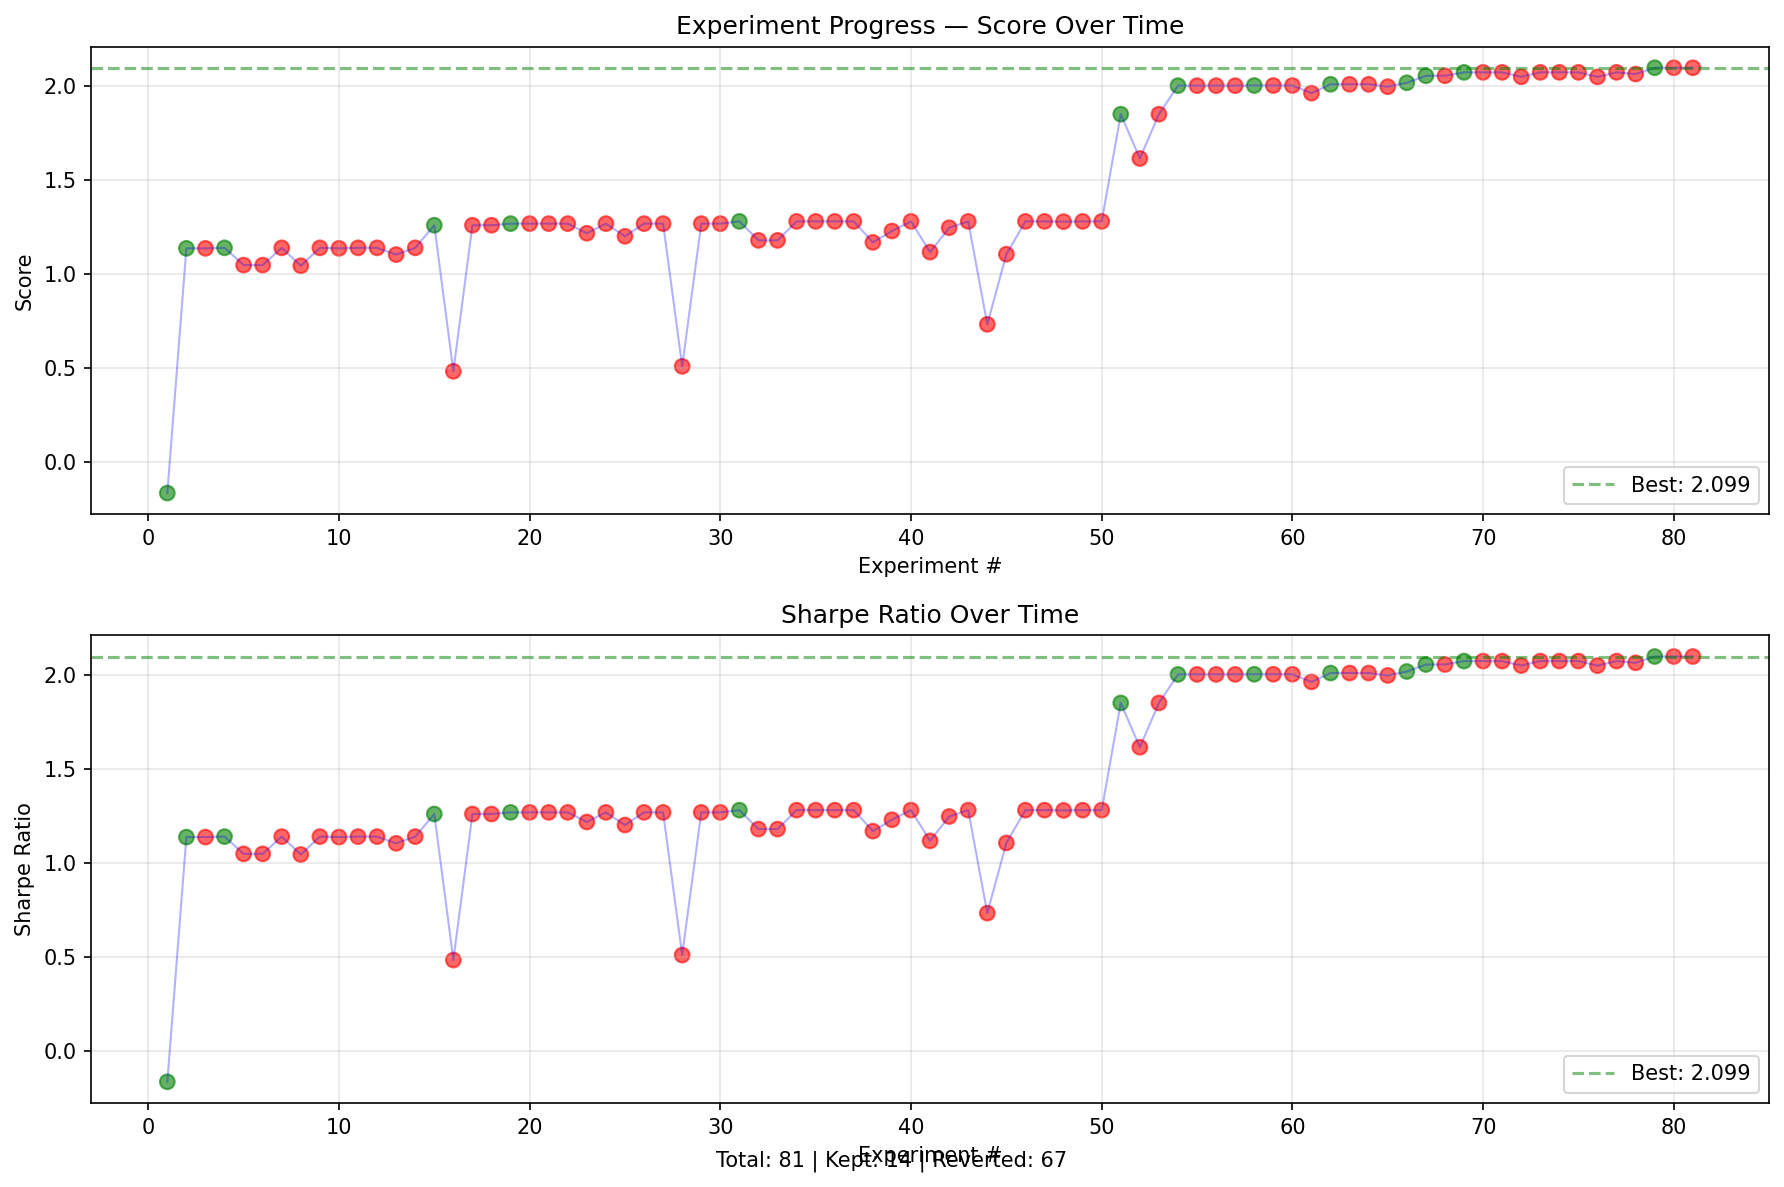
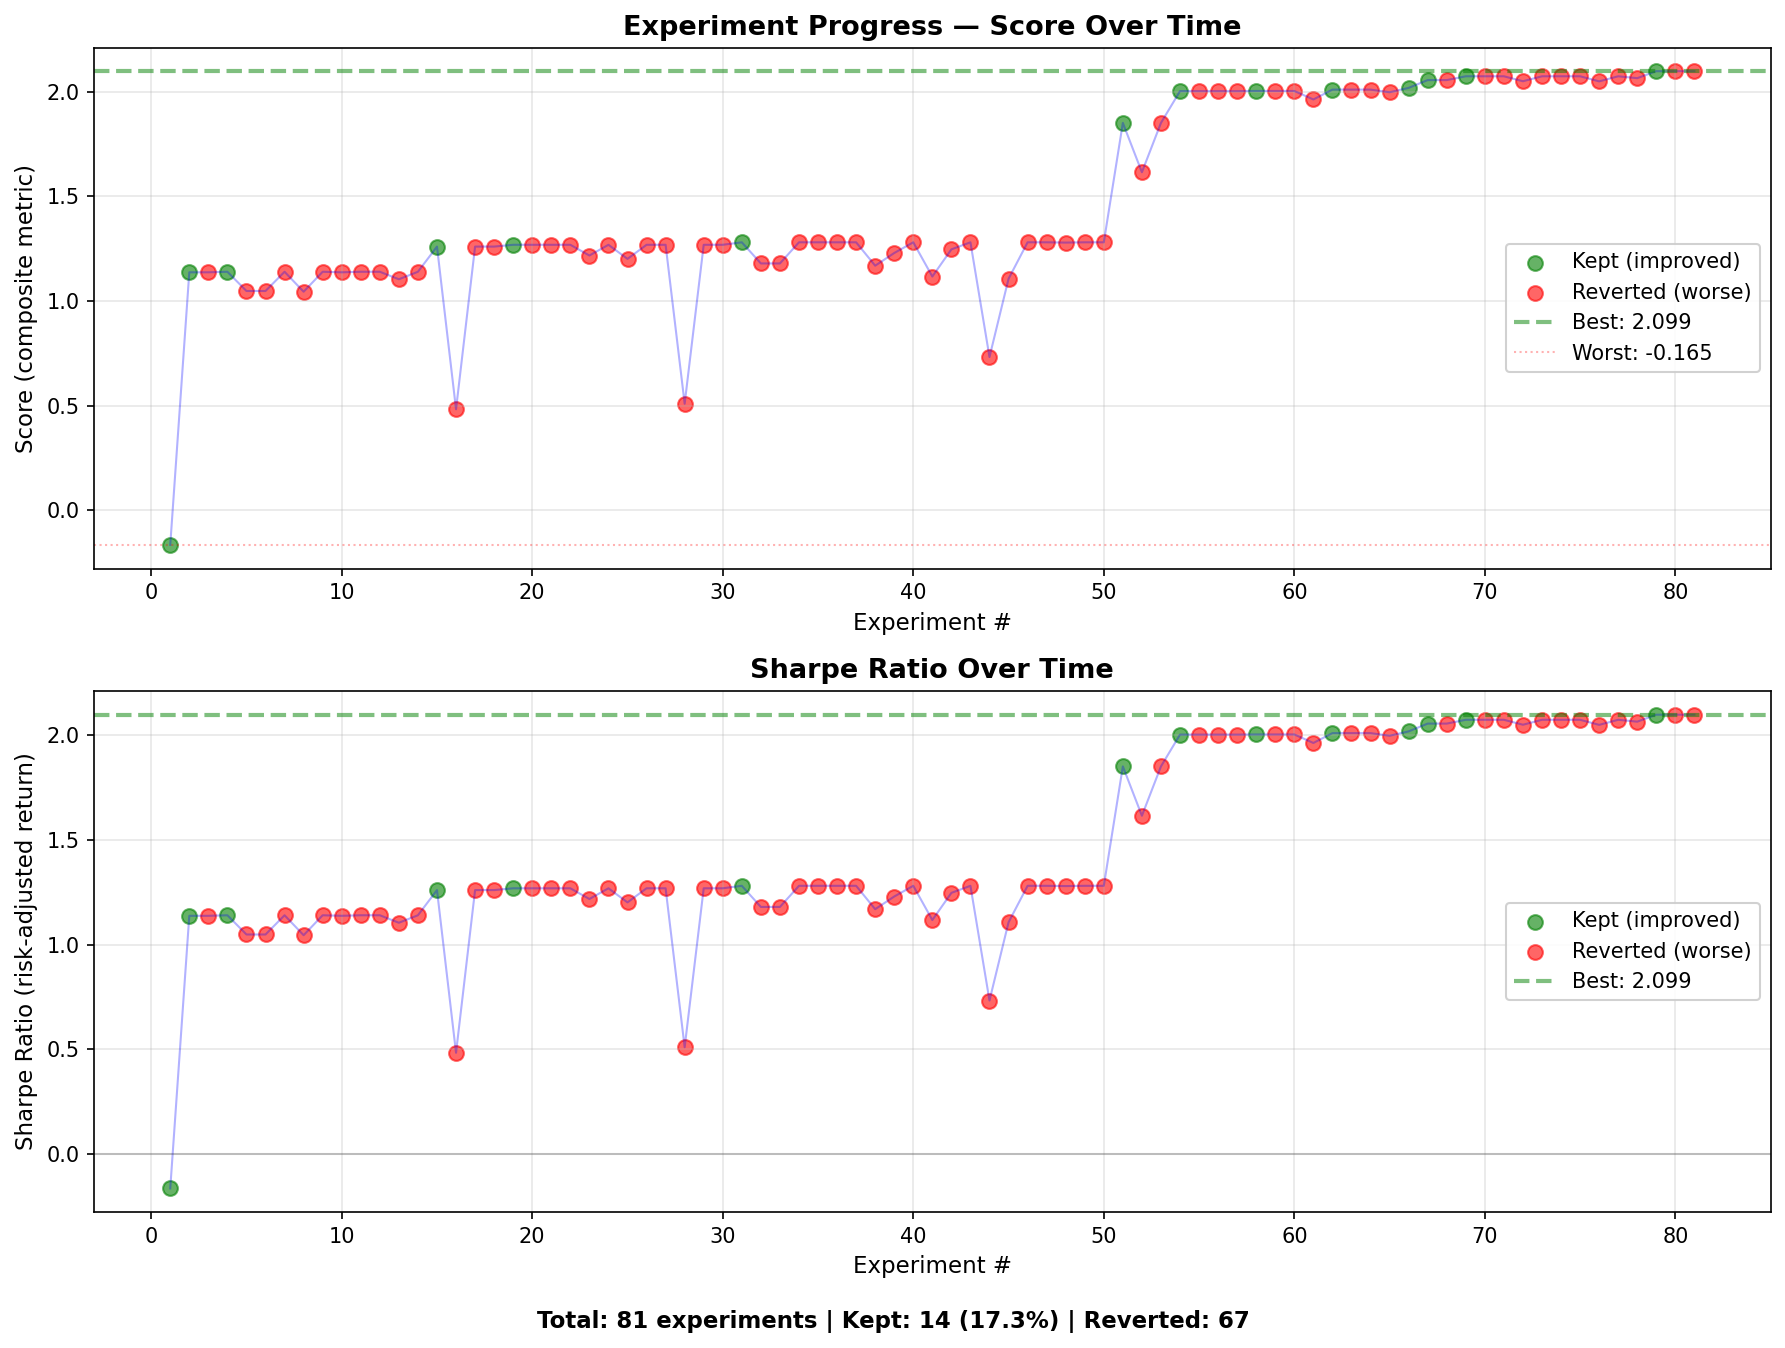
Fix plot_progress.py — add legends and better chart distinction
- Add proper legend for green (kept) and red (reverted) dots
- Separate scatter plots by status for clear legend labels
- Add worst score line for context
- Add zero line to Sharpe chart for reference
- Improve axis labels with units/descriptions
- Show improvement rate percentage in footer
- Adjust layout to prevent text cutoff

diff --git a/tools/plot_progress.py b/tools/plot_progress.py
@@ -30,36 +30,48 @@ def plot_progress(experiments):
     kept = [e.get('kept', False) for e in experiments]
 
     # Create figure with two subplots
-    fig, (ax1, ax2) = plt.subplots(2, 1, figsize=(12, 8))
+    fig, (ax1, ax2) = plt.subplots(2, 1, figsize=(12, 9))
+
+    # Separate data for legend
+    x_kept = [i for i, k in zip(x, kept) if k]
+    x_reverted = [i for i, k in zip(x, kept) if not k]
+    scores_kept = [s for s, k in zip(scores, kept) if k]
+    scores_reverted = [s for s, k in zip(scores, kept) if not k]
+    sharpes_kept = [s for s, k in zip(sharpes, kept) if k]
+    sharpes_reverted = [s for s, k in zip(sharpes, kept) if not k]
 
     # Plot 1: Score over time
-    colors = ['green' if k else 'red' for k in kept]
-    ax1.scatter(x, scores, c=colors, alpha=0.6, s=50)
+    ax1.scatter(x_kept, scores_kept, c='green', alpha=0.6, s=50, label='Kept (improved)')
+    ax1.scatter(x_reverted, scores_reverted, c='red', alpha=0.6, s=50, label='Reverted (worse)')
     ax1.plot(x, scores, 'b-', alpha=0.3, linewidth=1)
-    ax1.axhline(y=max(scores), color='g', linestyle='--', alpha=0.5, label=f'Best: {max(scores):.3f}')
-    ax1.set_xlabel('Experiment #')
-    ax1.set_ylabel('Score')
-    ax1.set_title('Experiment Progress — Score Over Time')
-    ax1.legend()
+    ax1.axhline(y=max(scores), color='green', linestyle='--', alpha=0.5, linewidth=2, label=f'Best: {max(scores):.3f}')
+    ax1.axhline(y=min(scores), color='red', linestyle=':', alpha=0.3, linewidth=1, label=f'Worst: {min(scores):.3f}')
+    ax1.set_xlabel('Experiment #', fontsize=11)
+    ax1.set_ylabel('Score (composite metric)', fontsize=11)
+    ax1.set_title('Experiment Progress — Score Over Time', fontsize=13, fontweight='bold')
+    ax1.legend(loc='best', framealpha=0.9)
     ax1.grid(True, alpha=0.3)
 
     # Plot 2: Sharpe over time
-    ax2.scatter(x, sharpes, c=colors, alpha=0.6, s=50)
+    ax2.scatter(x_kept, sharpes_kept, c='green', alpha=0.6, s=50, label='Kept (improved)')
+    ax2.scatter(x_reverted, sharpes_reverted, c='red', alpha=0.6, s=50, label='Reverted (worse)')
     ax2.plot(x, sharpes, 'b-', alpha=0.3, linewidth=1)
-    ax2.axhline(y=max(sharpes), color='g', linestyle='--', alpha=0.5, label=f'Best: {max(sharpes):.3f}')
-    ax2.set_xlabel('Experiment #')
-    ax2.set_ylabel('Sharpe Ratio')
-    ax2.set_title('Sharpe Ratio Over Time')
-    ax2.legend()
+    ax2.axhline(y=max(sharpes), color='green', linestyle='--', alpha=0.5, linewidth=2, label=f'Best: {max(sharpes):.3f}')
+    ax2.axhline(y=0, color='black', linestyle='-', alpha=0.2, linewidth=1)
+    ax2.set_xlabel('Experiment #', fontsize=11)
+    ax2.set_ylabel('Sharpe Ratio (risk-adjusted return)', fontsize=11)
+    ax2.set_title('Sharpe Ratio Over Time', fontsize=13, fontweight='bold')
+    ax2.legend(loc='best', framealpha=0.9)
     ax2.grid(True, alpha=0.3)
 
     # Add summary text
     total = len(experiments)
     kept_count = sum(kept)
-    fig.text(0.5, 0.02, f'Total: {total} | Kept: {kept_count} | Reverted: {total - kept_count}',
-             ha='center', fontsize=10)
+    improvement_rate = (kept_count / total * 100) if total > 0 else 0
+    fig.text(0.5, 0.01, f'Total: {total} experiments | Kept: {kept_count} ({improvement_rate:.1f}%) | Reverted: {total - kept_count}',
+             ha='center', fontsize=11, fontweight='bold')
 
-    plt.tight_layout()
+    plt.tight_layout(rect=[0, 0.03, 1, 1])
     plt.savefig(OUTPUT_FILE, dpi=150, bbox_inches='tight')
     print(f"Saved progress chart to {OUTPUT_FILE}")
 